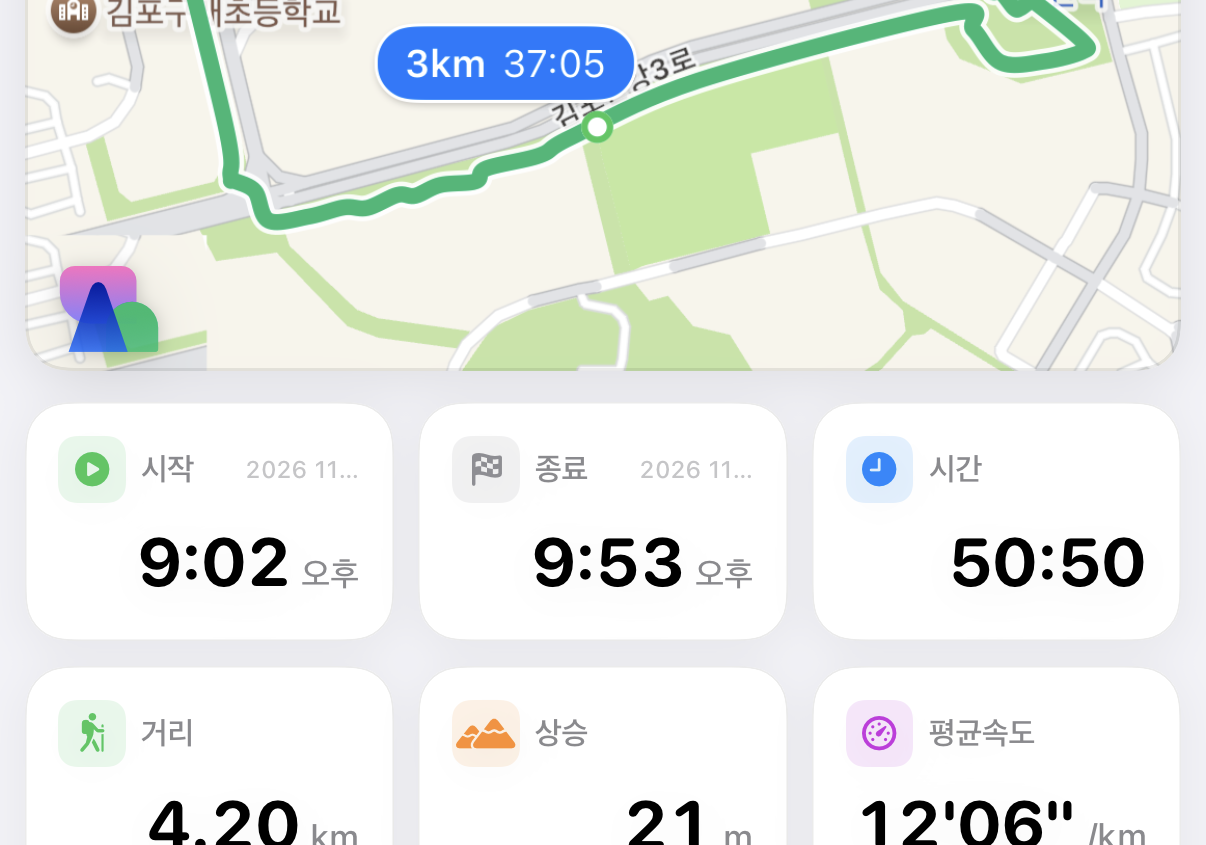
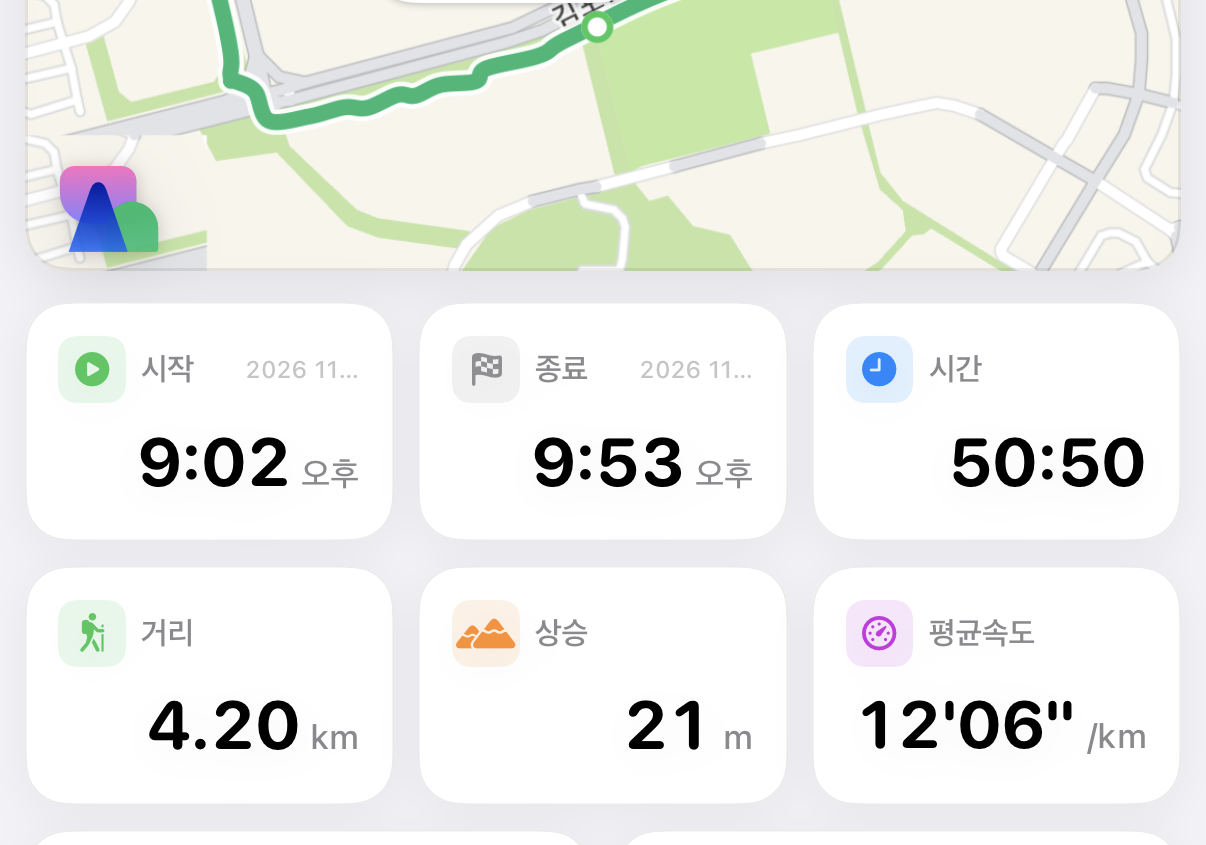
fix(ios): v15 Data Card cells clear of dots; section-header scroll
Increase dotsTopGap, reframe Data Card thumb so 「21 m」 sits fully above
card bottom (no 3rd-row clip), and scroll so captures keep 「이미지 저장 방식」
under nav for Android-matched section crops.

diff --git a/sansan/GeneralSettingsView.swift b/sansan/GeneralSettingsView.swift
@@ -220,7 +220,7 @@ struct GeneralSettingsView: View {
                     selection: $imageSaveStyle,
                     viewedPage: $viewedImageSaveStyle
                 )
-                    .listRowInsets(EdgeInsets(top: 4, leading: 0, bottom: 4, trailing: 0))
+                    .listRowInsets(EdgeInsets(top: 4, leading: 0, bottom: 8, trailing: 0))
                     .listRowBackground(Color.clear)
                     .listRowSeparator(.hidden)
             } header: {
@@ -228,6 +228,7 @@ struct GeneralSettingsView: View {
             } footer: {
                 Text(viewedImageSaveStyle.footer)
             }
+            // Scroll so section header stays under nav (not buried / not 신체 정보).
             .id("imageSaveStyleSection")
 
             Section {
@@ -308,9 +309,9 @@ struct GeneralSettingsView: View {
                                 proxy.scrollTo("shareMapExportSection", anchor: .top)
                             }
                         } else if AppStoreScreenshotMode.current?.scrollsToImageSaveStyle == true {
-                            // Keep section header 「이미지 저장 방식」 + full card + footer in frame.
+                            // Keep 「이미지 저장 방식」 under nav; hide 신체 정보 above.
                             withAnimation(.easeInOut(duration: 0.35)) {
-                                proxy.scrollTo("imageSaveStyleSection", anchor: UnitPoint(x: 0.5, y: 0.12))
+                                proxy.scrollTo("imageSaveStyleSection", anchor: UnitPoint(x: 0.5, y: 0.02))
                             }
                         }
                     }

diff --git a/sansan/ImageSaveStylePager.swift b/sansan/ImageSaveStylePager.swift
@@ -41,8 +41,8 @@ private enum ImageSaveStylePagerTokens {
     static let titleLeading: CGFloat = 12
     static let selectedChipTop: CGFloat = 12
     static let selectedChipTrailing: CGFloat = 12
-    /// Dots below card (v13) — not on-card.
-    static let dotsTopGap: CGFloat = 12
+    /// Dots below card (v13) — gap so cell bottoms (Data Card 「21 m」) stay clear.
+    static let dotsTopGap: CGFloat = 22
     static let springLead = (stiffness: 520.0, damping: 34.0)
     static let springTrail = (stiffness: 140.0, damping: 18.0)
     static let springPage = (stiffness: 170.0, damping: 22.0)
